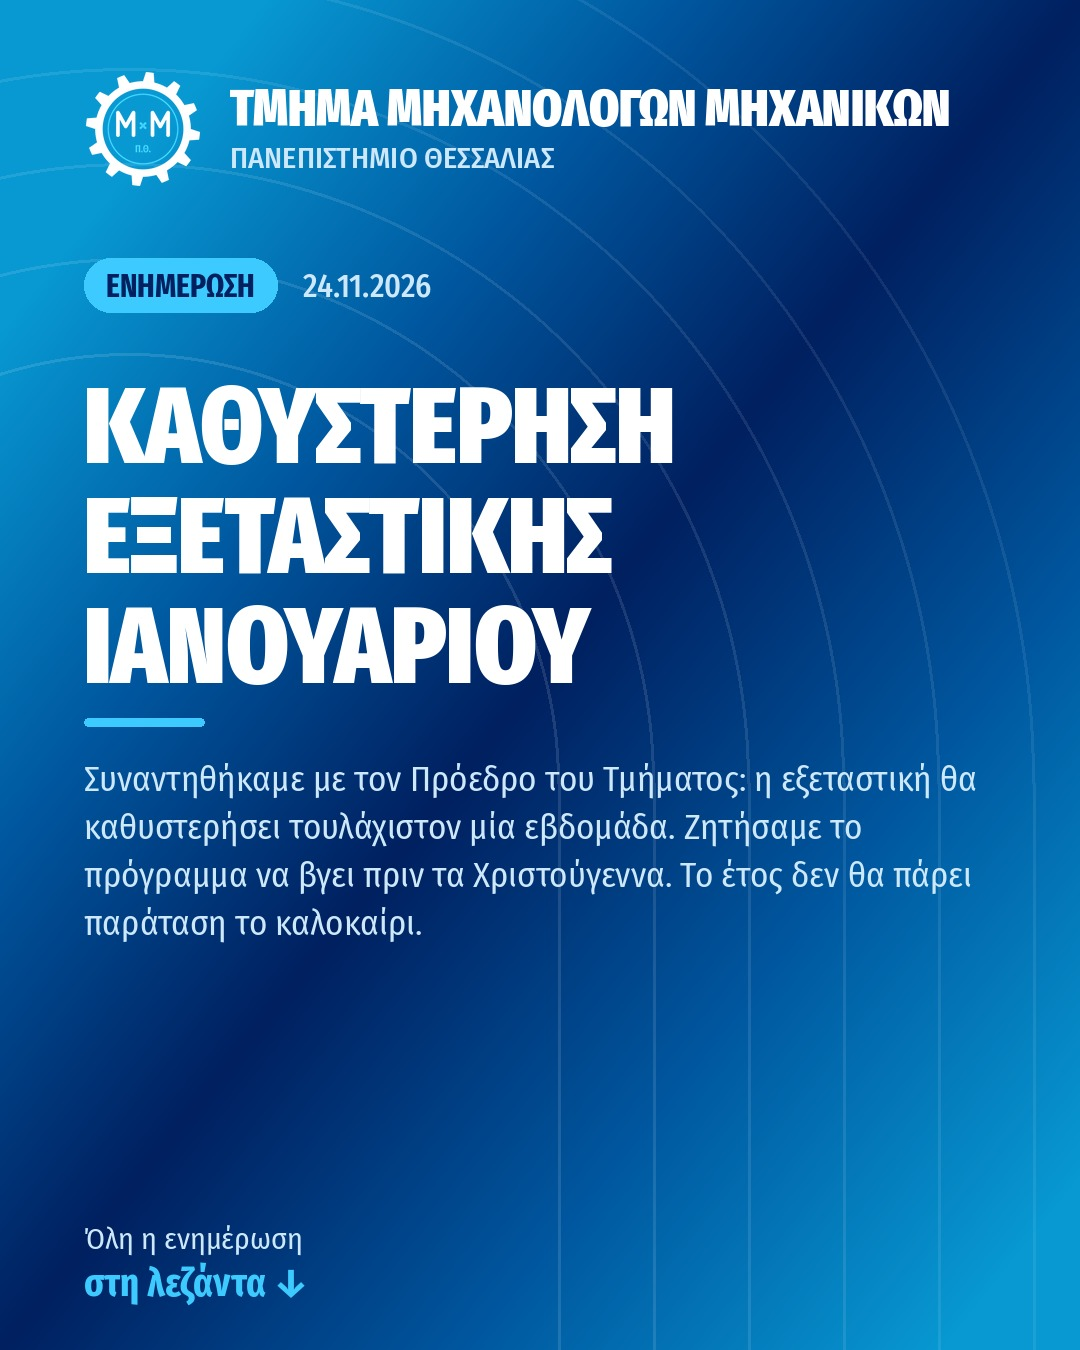
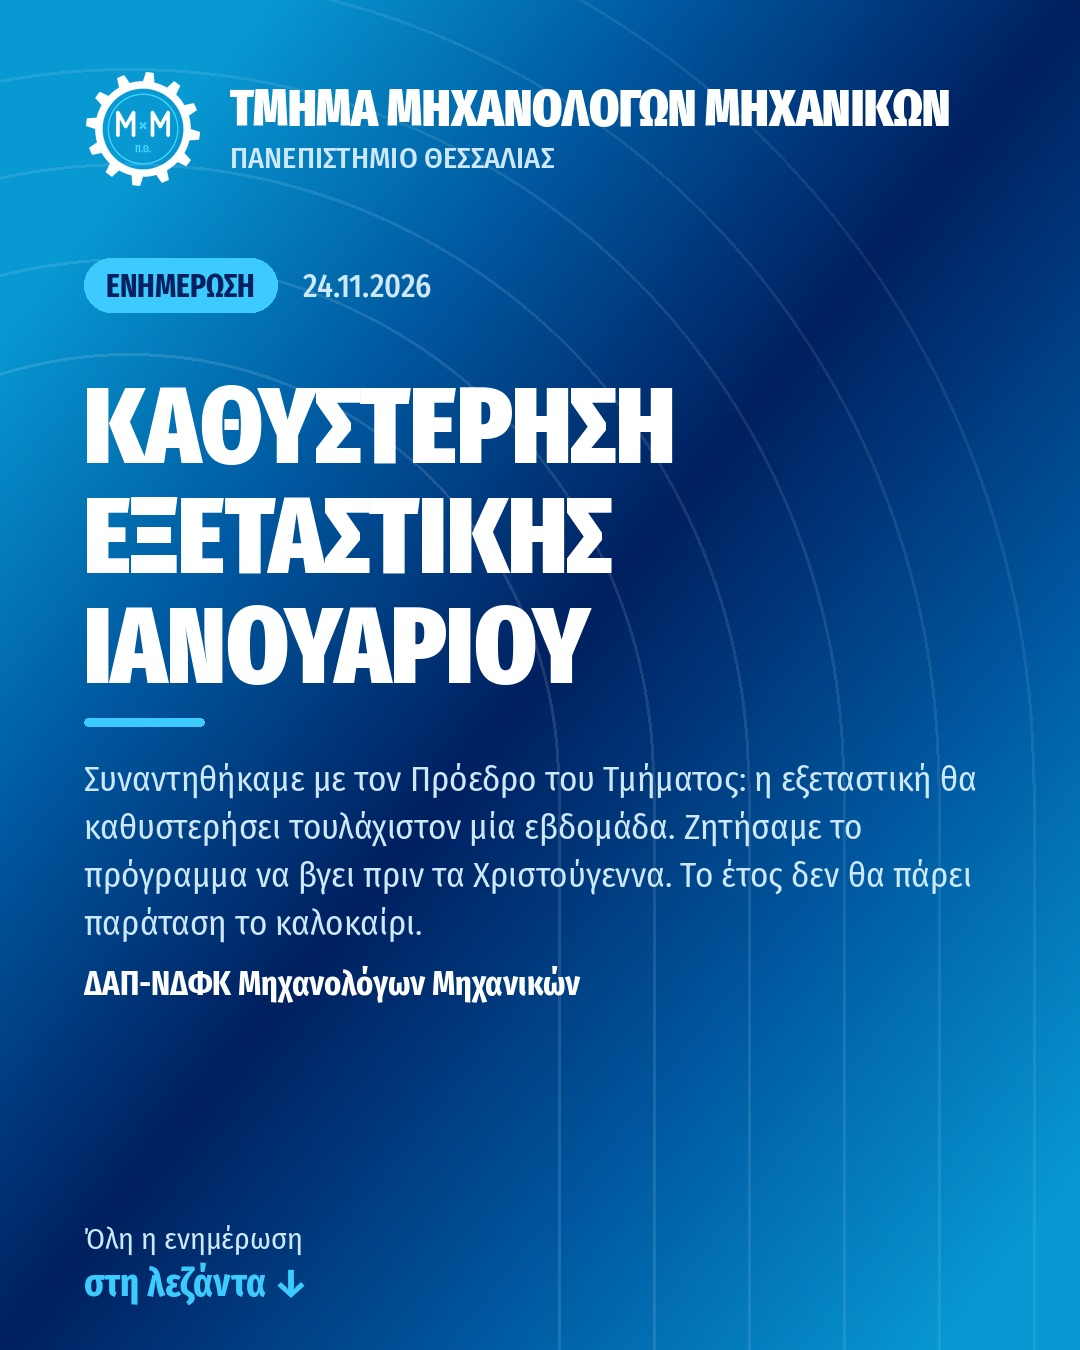
Υπογραφή κάτω από το κείμενο της εικόνας + νέα εκδοχή ανακοίνωσης εξεταστικής
Claude-Session: https://claude.ai/code/session_01J2xiNG63nWgQFaVfvWKCr4

Changed region(s): [[0.0611, 0.7156, 0.55, 0.7467]]

diff --git a/theme_dap.py b/theme_dap.py
@@ -115,7 +115,8 @@ def _paste(img, path: Path, box_w: int, xy, anchor="lt", navy: bool = False):
 
 def make_image(src: dict, title: str, date: datetime, excerpt: str, category: str, out: Path,
                story: bool = False, footer: tuple[str, str] | None = None,
-               excerpt_size: int | None = None, style: str = "blue") -> Path:
+               excerpt_size: int | None = None, style: str = "blue",
+               signature: str = "") -> Path:
     """footer=(μικρό κείμενο, μεγάλο γαλάζιο κείμενο) αντί για «Ολόκληρη η ανακοίνωση / site».
     style: "blue" (καμπάνια) ή "white" (λευκό φόντο, μπλε γράμματα)."""
     H = 1920 if story else 1350
@@ -180,6 +181,8 @@ def make_image(src: dict, title: str, date: datetime, excerpt: str, category: st
     ef = ImageFont.truetype(REG, excerpt_size or (38 if story else 35))
     eh = int(ef.size * 1.38)
     room = (footer_y - 30 - y) // eh
+    if signature:                       # μια γραμμή κρατιέται για την υπογραφή
+        room -= 1
     if excerpt and room >= 1:
         elines = _wrap(d, excerpt, ef, maxw)
         if len(elines) > room:
@@ -188,6 +191,9 @@ def make_image(src: dict, title: str, date: datetime, excerpt: str, category: st
         for ln in elines:
             d.text((PAD, y), ln, font=ef, fill=SUB)
             y += eh
+    if signature:                       # υπογραφή κάτω από το κείμενο, ίδια γραμματοσειρά
+        sf = ImageFont.truetype(BOLD, ef.size)
+        d.text((PAD, y + int(eh * 0.25)), signature, font=sf, fill=TXT)
 
     # --- Υποσέλιδο: πού είναι ολόκληρη η ανακοίνωση + λογότυπο καμπάνιας
     domain = re.sub(r"^https?://(www\.)?([^/?]+).*$", r"\2",

diff --git a/announcer.py b/announcer.py
@@ -765,6 +765,8 @@ def regen_images(src: dict, p: dict, style: str | None = None) -> None:
         def render(*a, **k):
             if p.get("footer"):
                 k.setdefault("footer", tuple(p["footer"]))
+            if p.get("signature"):
+                k.setdefault("signature", p["signature"])
             return theme_dap.make_image(*a, style=style, **k)
     else:
         render = make_image
